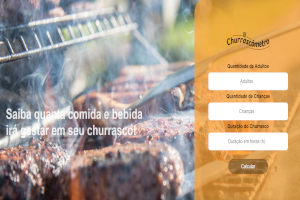
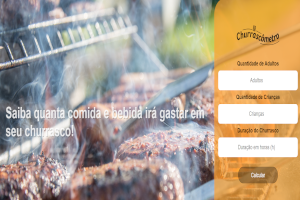
Add files via upload

diff --git a/styleportfolio.css b/styleportfolio.css
@@ -1,27 +1,22 @@
 @charset "utf-8";
+@import url('https://fonts.googleapis.com/css2?family=Bebas+Neue&display=swap');
+@import url('https://fonts.googleapis.com/css2?family=Barlow:wght@600&display=swap');
+@import url('https://fonts.googleapis.com/css2?family=Fraunces:opsz,wght@9..144,700;9..144,900&display=swap');
 *{
     list-style: none;
     margin: 0;
     padding: 0;
 }
-@import url('https://fonts.googleapis.com/css2?family=Bebas+Neue&display=swap');
 
-@keyframes slide{
-    from{
-        opacity: 0;
-    }
-    to{
-        transform: translateX(0);
-        opacity: 1;
-    }
-}
+
+
 html{
     scroll-behavior: smooth;
     
 }
 :root{
-    --font-padrao: 'Gill Sans', 'Gill Sans MT', 'Trebuchet MS', sans-serif;
-    --fonte-destaque: 'Bebas Neue', cursive;
+    --font-padrao: 'barlow',serif;
+    --fonte-destaque: 'Fraunces',serif;
 }
 body{
     background-color: white;
@@ -65,6 +60,7 @@ nav{
     color: white;
     padding: 5px;
     text-decoration: none;
+    border-radius: 10px;
     
 }
 .link:hover{
@@ -74,7 +70,7 @@ nav{
     color: black;
 }
 main{
-    
+    justify-content: space-around;
     display: flex;
     min-width: 320px;
     max-width: 1000px;
@@ -84,8 +80,6 @@ main{
     
     
 }
-
-
 main #p1{
     font-family: var(--fonte-padrao);
     font-size: 1.3em; 
@@ -111,19 +105,13 @@ main #p3{
     margin-bottom: 20px;
        
 }
-main img{
-    
-    margin-left: 100px;
-    
-}
+
 .apresentação{
+    width: 400px;
+   align-self: center;
+   display: block;
+   margin-left: 20px;
     
-    animation-name: slide;
-    animation-duration: 1s;
-    animation-fill-mode: forwards;
-    transform: translateX(-40px);
-    display: block;
-    margin-top: 150px;
 }
 .redessociais{
     
@@ -154,7 +142,6 @@ main img{
     border: 1px solid;
     
 }
-
 
 section#quemsoueu{
     background-color: black;
@@ -205,20 +192,24 @@ section p{
     box-shadow: 2px 2px 1px rgba(0, 0, 0, 0.055);
 }
 #containerprojetos h1{
-   padding-top: 10px;
-    margin-bottom: 10px;
+    font-family: var(--fonte-padrao);
+    padding-top: 10px;
+    margin-bottom: 30px;
+    font-size: 2.5rem;
+    font-weight: bold;
+    text-align: center;
 }
 #projetos{
     display: flex;
     margin: auto;
-    
-    
+    justify-content: center;
+        
 }
 #projetos2{
     display: flex;
     margin: auto;
     margin-top: 10px;
-    
+    justify-content: center;
 }
 
 .projeto p{
@@ -234,8 +225,8 @@ div.projeto{
     border-radius: 5px;
     background-color: rgba(0, 0, 0, 0.247);
     padding: 20px;
-    margin:50px;
-    
+    margin: 50px;
+    font-family:var(--fonte-destaque);
     max-width: 300px;
     
 }
@@ -281,22 +272,31 @@ footer p{
 @media screen and (max-width:777px){
 
  main{
-     display: block;
+    justify-content: center;
  }
  main img{
      display: none;
  }
  #projetos{
-     display: block;
-
+     display: block; 
  }
  
  #projetos2{
-     display: block;
+    display: block;   
  }
- .apresentação{
-     margin-left: 50px;
 
+ div.projeto{
+    margin: auto;
+    margin-bottom: 20px;
+}
+ .apresentação{
+     padding-top: 30px;
+     margin-left: 0;
+     text-align: center;
+
+ }
+ .redessociais{
+    justify-content: center;
  }
  
 }
@@ -323,15 +323,12 @@ footer p{
     display: block;
     width: 100%;
 }
-.projeto{
-    margin: 0;
-}
+
 .link:hover{
     background-color: white;
     padding: 5px;
     margin: 5px;
     color: black;
-
 }
 
 

diff --git a/index.html b/index.html
@@ -57,28 +57,30 @@
         <h1>Projetos</h1>
         <div id="projetos">
             <div class="projeto"> 
-                <img src="Imagens/people 300x200.jpg" alt="" >
-                <p>Minha primeira aventura no mundo do desenvolvimeto front-End, construído 100% em HTLM5 e CSS3, 
-                projeto desenvolvido no intuito de promover um marketing positivo para uma empresa Fictícia através de uma 
-                Landing Page para Captura de Leads.</p>
-                 <a href="https://jonatarossanttles.github.io/PAGINA-DE-CAPTURA-WORKSHOP/" target="_blank"><input type="button" value="Visualizar" class="botão-visualizar"></a>
+                <img src="Imagens/Sunnyside 300x200.png" alt="" >
+                <p>Desenvolvimento de uma página web, onde o  desafio extraído do site front-end mentor com o intuito de aprimorar meus conhecimentos
+                    em posicionamento através do flex-box, uma página completamente responsiva com o mínimo de 370px.
+                </p>
+                 <a href="https://jonatarossanttles.github.io/Sunnyside/" target="_blank"><input type="button" value="Visualizar" class="botão-visualizar"></a>
             </div>
             
             <div class="projeto" >
-                <img src="Imagens/CHURRASCOMETRO 300X200.png" alt="" >
-                <p> Primeiro projeto (Churrascômetro) feito em HTML, CSS e Javascript para cálculo da quantidade de comida e bebida para um 
-                    churrasco fictício levando em considerações algumas variáveis, página completamente responsiva até no mínimo 320px de largura.
+                <img src="Imagens/people 300x200.jpg" alt="" >
+                <p> Minha primeira aventura no mundo do desenvolvimeto front-End, construído 100% em HTLM5 e CSS3, 
+                    projeto desenvolvido no intuito de promover um marketing positivo para uma empresa Fictícia através de uma 
+                    Landing Page para Captura de Leads.
                  </p>
                 
-                <a href="https://jonatarossanttles.github.io/Churrascometro/" target="_blank"><input type="button" value="Visualizar" class="botão-visualizar"></a>
+                <a href=" https://jonatarossanttles.github.io/PAGINA-DE-CAPTURA-WORKSHOP/" target="_blank"><input type="button" value="Visualizar" class="botão-visualizar"></a>
             </div>            
 
         </div>
         <div id="projetos2">
             <div class="projeto"> 
-                <img src="Imagens/em construação 300x200.png" alt="" >
-                <p> Projeto em construção... </p>
-                <a href="#" target="_blank"><input type="button" value="Visualizar" class="botão-visualizar"></a>
+                <img src="Imagens/CHURRASCOMETRO 300X200.png" alt="" >
+                <p> Primeiro projeto (Churrascômetro) feito em HTML, CSS e Javascript para cálculo da quantidade de comida e bebida para um 
+                    churrasco fictício levando em considerações algumas variáveis, página completamente responsiva até no mínimo 320px de largura.</p>
+                <a href="https://jonatarossanttles.github.io/Churrascometro/" target="_blank"><input type="button" value="Visualizar" class="botão-visualizar"></a>
             </div>
             
             <div class="projeto" >
